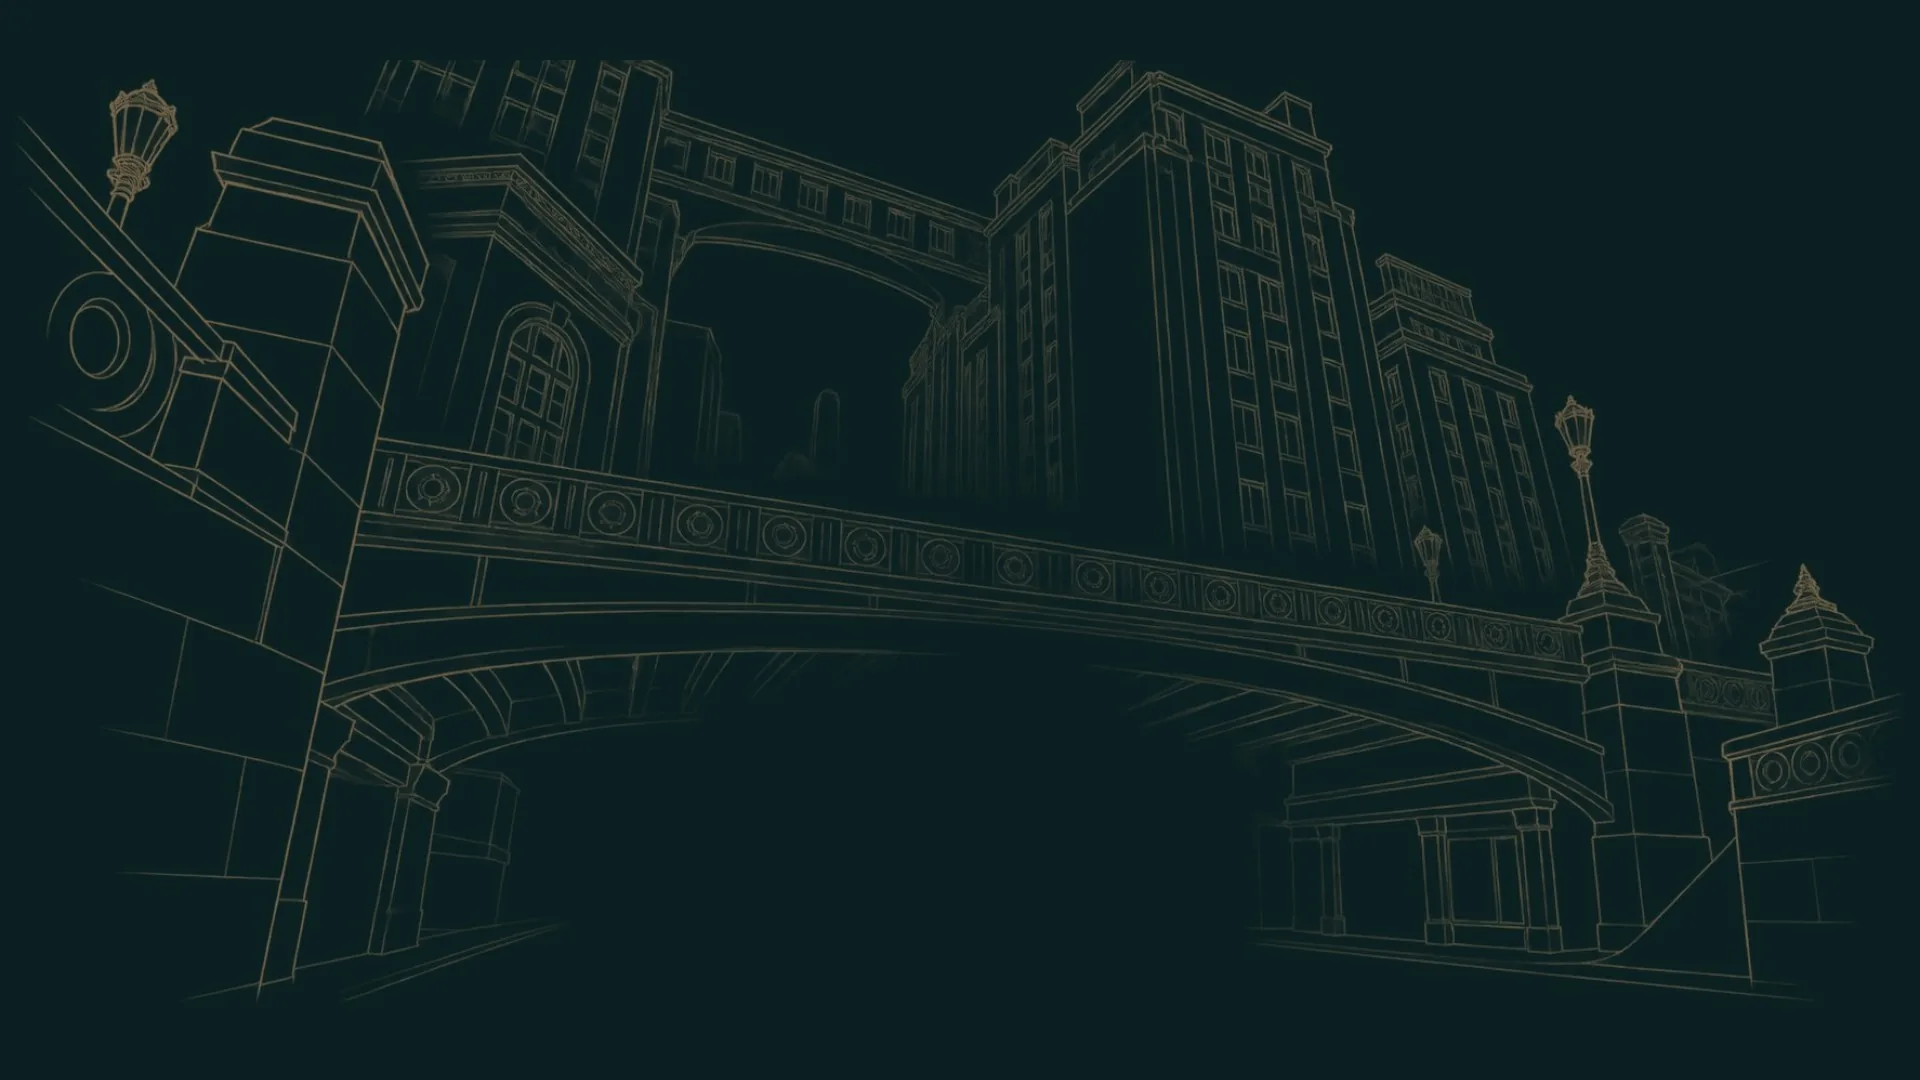
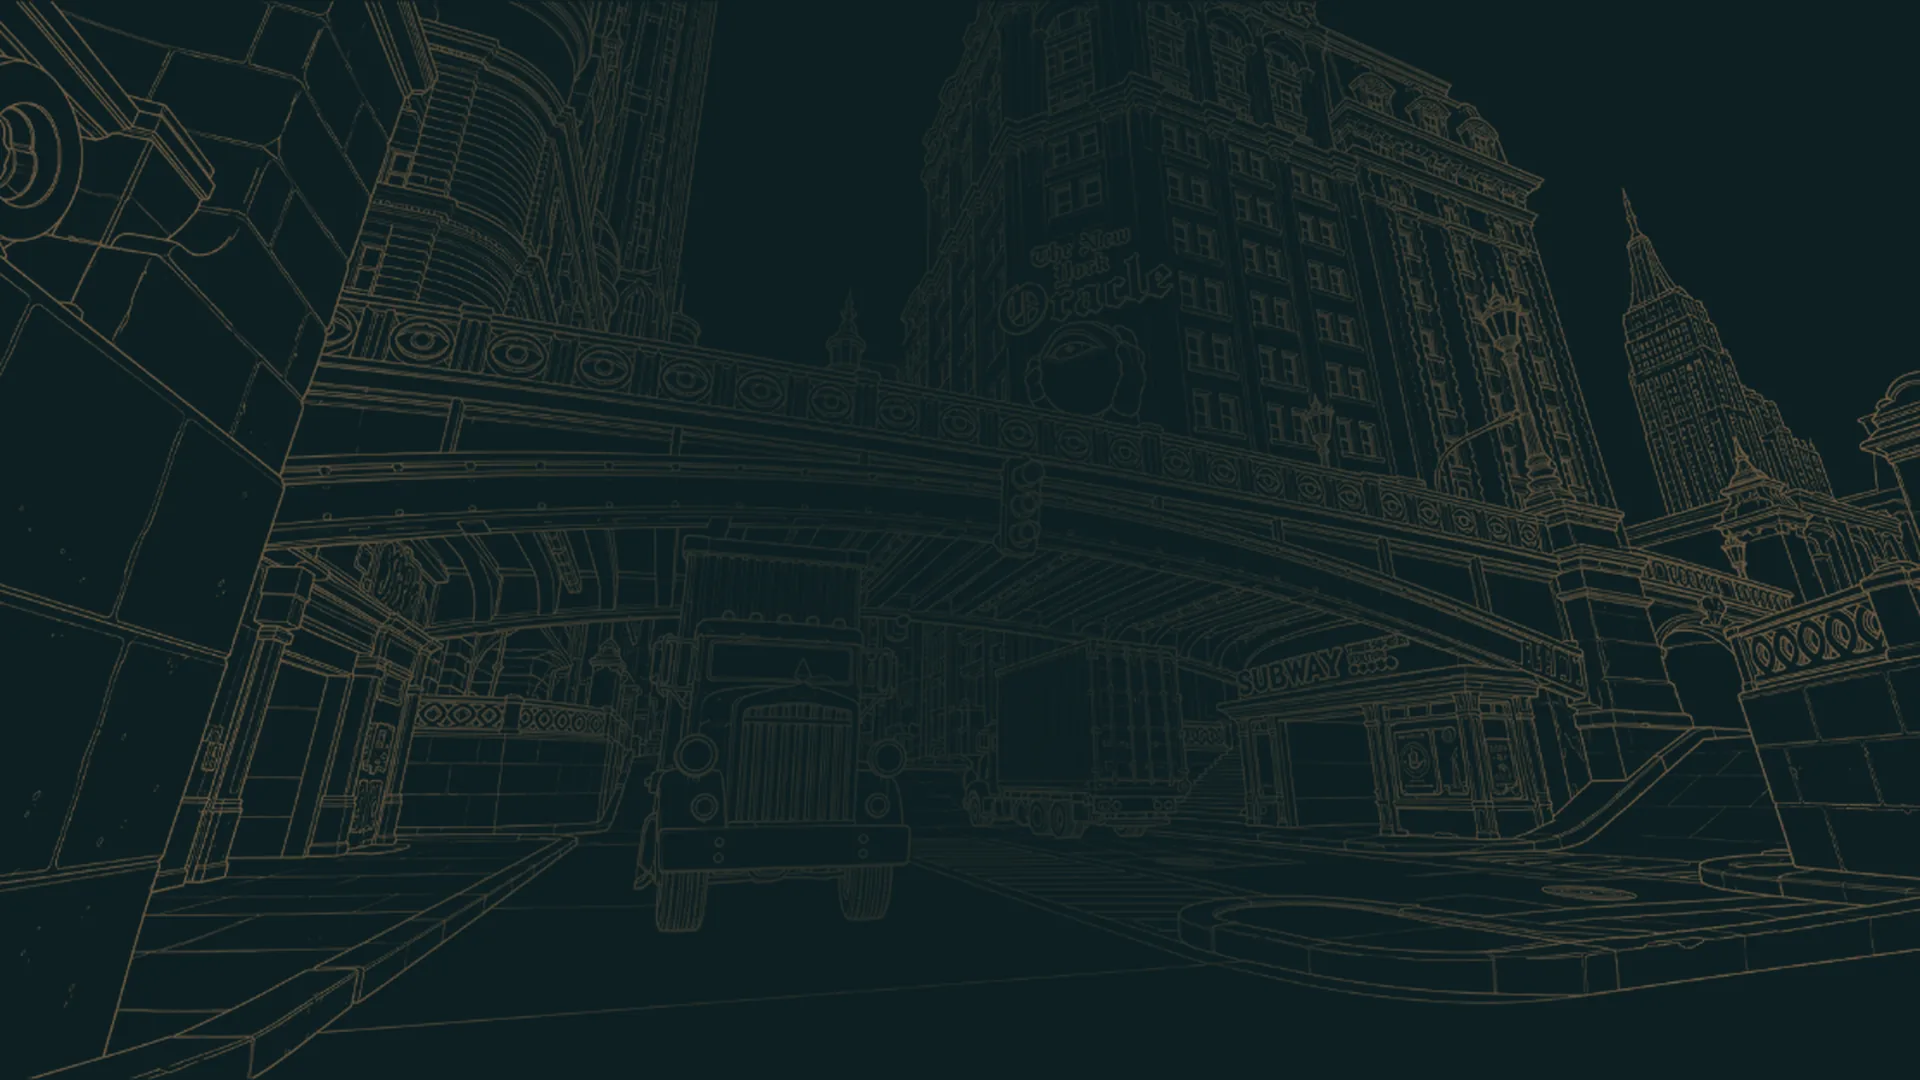
Site: formato e premiação do MIX, novo fundo e colaborador Rique
- Remove a seção de regras e junta formato e premiação num bloco só
  (programação, MIX, classificação, transmissão e premiação), em PT/EN/ES
- Troca a ilustração de fundo da ponte, mantendo a opacidade
- Adiciona Rique aos colaboradores

diff --git a/site/i18n.js b/site/i18n.js
@@ -61,26 +61,19 @@ const translations = {
     "live.open": "Open on Twitch",
     "live.local": "The stream only plays on the published site (Twitch blocks it when the file is opened directly).",
     "hero.sub": "Community-run Deadlock tournament",
-    "rules.title": "Rules, format and prizes",
-    "rules.s1": "1. Attendance and schedule",
-    "rules.s1.1": "Each player must confirm attendance in the official channel 15 minutes before the scheduled time.",
-    "rules.s1.2": "There is a 10-minute grace period after the scheduled time. After that, the referees record the absence and apply the rule set out in the announced format.",
-    "rules.s1.3": "Each participant must play on their own Steam account and report any problem directly to the referees.",
-    "rules.s2": "2. Matches and technical issues",
-    "rules.s2.1": "Matches are played in a private lobby. The organizers will announce the server region and the side and hero selection rules before the tournament.",
-    "rules.s2.2": "Pauses are allowed for technical issues. The affected player must notify the referees, who decide when to resume the match, within the game's limits.",
-    "rules.s2.3": "If disconnected, a player may try to rejoin during the pause. If the failure affects several participants or prevents the match from continuing, the referees may restart or reschedule it.",
-    "rules.s3": "3. Conduct",
-    "rules.s3.1": "Cheats, automating actions with scripts or macros, deliberate bug abuse and match fixing are prohibited.",
-    "rules.s3.2": "Players may not watch the broadcast of their own match or receive information from spectators while it is in progress, including during pauses.",
-    "rules.s3.3": "Harassment, discrimination, threats and insults are subject to penalties.",
-    "rules.s3.4": "Only authorized spectators may join the lobby. Authorized broadcasts must have a delay of at least 3 minutes.",
-    "rules.s4": "4. Results, disputes and penalties",
-    "rules.s4.1": "The organizers record the result of each match and update the individual standings according to the announced scoring system.",
-    "rules.s4.2": "Any player may dispute a result or report a violation directly to the referees within 15 minutes after the match ends. The report must include the match ID and evidence, when available. For suspected cheating, the deadline starts when the evidence is found.",
-    "rules.s4.3": "The referees may issue a warning, a point deduction or disqualification, depending on severity and repeat offenses. The decision and its reason will be communicated to the affected player.",
-    "rules.formatText": "TBD",
-    "rules.prizeText": "TBD",
+    "rules.title": "Format and prizes",
+    "rules.f1": "Schedule",
+    "rules.f1.1": "Saturday, Nov 28: starts at 1 PM, with at least 10 matches planned. The day is expected to end at 6:30 PM.",
+    "rules.f1.2": "Sunday, Nov 29: starts at 2 PM and runs until the tournament ends. 11 matches are planned, including the three finals, played by the 12 best-ranked players.",
+    "rules.f2": "How the MIX works",
+    "rules.f2.1": "Teams are drawn at random. To balance them, each team has one player from the “Captain” category. This label is only used to organize the draw.",
+    "rules.f2.2": "If players think the split is unbalanced or want to play with a different lineup, they can ask for a refresh to redraw the team.",
+    "rules.f3": "Standings",
+    "rules.f3.1": "Standings are individual. Before the finals, each win is worth 2 points and each loss is worth 1 point.",
+    "rules.f3.2": "In the three final matches, each win is worth 3 points, and each loss is still worth 1 point.",
+    "rules.f4": "Live broadcast",
+    "rules.f4.1": "Two matches run at the same time: Farinha streams one and Nokeime streams the other.",
+    "rules.prizeText": "The total prize, currently set at R$ 1,000.00, will be split among the 6 best-ranked players at the end of the tournament.",
     "collab.title": "Contributors",
     "footer.main": "Refresher League",
     "footer.small": "Independent event, not affiliated with Valve."
@@ -146,26 +139,19 @@ const translations = {
     "live.open": "Abrir en Twitch",
     "live.local": "La transmisión solo aparece en el sitio publicado (Twitch la bloquea al abrir el archivo directamente).",
     "hero.sub": "Torneo de Deadlock hecho por la comunidad",
-    "rules.title": "Reglas, formato y premios",
-    "rules.s1": "1. Asistencia y horarios",
-    "rules.s1.1": "Cada jugador debe confirmar su asistencia en el canal oficial 15 minutos antes de la hora programada.",
-    "rules.s1.2": "La tolerancia es de 10 minutos después de la hora programada. Pasado ese plazo, el arbitraje registra la ausencia y aplica la regla prevista en el formato publicado.",
-    "rules.s1.3": "Cada participante debe jugar con su propia cuenta de Steam y comunicar cualquier problema directamente al arbitraje.",
-    "rules.s2": "2. Partidas y problemas técnicos",
-    "rules.s2.1": "Las partidas se jugarán en lobby privado. La organización anunciará la región del servidor y las reglas de elección de lado y de héroes antes del torneo.",
-    "rules.s2.2": "Se permiten pausas en caso de problemas técnicos. El jugador afectado debe avisar al arbitraje, que decide cuándo reanudar la partida, respetando los límites del juego.",
-    "rules.s2.3": "En caso de desconexión, el jugador puede intentar volver durante la pausa. Si la falla afecta a varios participantes o impide continuar, el arbitraje puede reiniciar o reprogramar la partida.",
-    "rules.s3": "3. Conducta",
-    "rules.s3.1": "Están prohibidos los cheats, la automatización de acciones con scripts o macros, el abuso deliberado de bugs y el arreglo de resultados.",
-    "rules.s3.2": "Los jugadores no pueden ver la transmisión de su propia partida ni recibir información de espectadores mientras esté en curso, incluso durante las pausas.",
-    "rules.s3.3": "El acoso, la discriminación, las amenazas y los insultos están sujetos a sanción.",
-    "rules.s3.4": "Solo los espectadores autorizados pueden entrar al lobby. Las transmisiones autorizadas deben tener al menos 3 minutos de retraso.",
-    "rules.s4": "4. Resultados, reclamos y sanciones",
-    "rules.s4.1": "La organización registra los resultados de cada partida y actualiza la clasificación individual según el sistema de puntuación publicado.",
-    "rules.s4.2": "Cualquier jugador puede impugnar un resultado o reportar una infracción directamente al arbitraje hasta 15 minutos después del final de la partida. El reporte debe incluir el ID de la partida y las pruebas, cuando estén disponibles. En caso de sospecha de trampa, el plazo empieza cuando se encuentra la prueba.",
-    "rules.s4.3": "El arbitraje puede aplicar una advertencia, pérdida de puntos o descalificación, según la gravedad y la reincidencia. La decisión y el motivo se comunicarán al jugador afectado.",
-    "rules.formatText": "Por definir",
-    "rules.prizeText": "Por definir",
+    "rules.title": "Formato y premios",
+    "rules.f1": "Programación",
+    "rules.f1.1": "Sábado 28/11: empieza a las 13 h, con al menos 10 partidas previstas. El cierre del día está previsto para las 18:30.",
+    "rules.f1.2": "Domingo 29/11: empieza a las 14 h y sigue hasta el final del campeonato. Se prevén 11 partidas, incluidas las tres finales, disputadas por los 12 jugadores mejor clasificados.",
+    "rules.f2": "Cómo funciona el MIX",
+    "rules.f2.1": "Los equipos se forman por sorteo. Para equilibrarlos, cada uno tiene un jugador de la categoría “Capitán”. Esta identificación solo sirve para organizar el sorteo.",
+    "rules.f2.2": "Si creen que la división quedó desequilibrada o quieren jugar con otra formación, los jugadores pueden pedir un refresh para sortear el equipo de nuevo.",
+    "rules.f3": "Clasificación",
+    "rules.f3.1": "La clasificación es individual. Antes de las finales, cada victoria vale 2 puntos y cada derrota vale 1 punto.",
+    "rules.f3.2": "En las tres partidas finales, cada victoria pasa a valer 3 puntos y cada derrota sigue valiendo 1 punto.",
+    "rules.f4": "Transmisión en vivo",
+    "rules.f4.1": "Se juegan dos partidas al mismo tiempo: Farinha transmite una y Nokeime transmite la otra.",
+    "rules.prizeText": "El premio total, por ahora fijado en R$ 1.000,00, se dividirá entre los 6 jugadores mejor clasificados al final del campeonato.",
     "collab.title": "Colaboradores",
     "footer.main": "Refresher League",
     "footer.small": "Evento independiente, sin vínculo con Valve."

diff --git a/site/index.html b/site/index.html
@@ -20,7 +20,7 @@
   <link rel="apple-touch-icon" href="assets/apple-touch-icon.png?v=20261118a">
   <link rel="preload" href="assets/fonts/VALVEOracle-SemiBold.woff2" as="font" type="font/woff2" crossorigin>
   <link rel="preload" href="assets/fonts/VALVEOracle-Medium.woff2" as="font" type="font/woff2" crossorigin>
-  <link rel="stylesheet" href="style.css?v=20261121e">
+  <link rel="stylesheet" href="style.css?v=20261126a">
 </head>
 <body>
   <!-- Patronos fixos nas bordas da tela (metade de cada um aparece): Hidden King à esquerda e
@@ -62,7 +62,7 @@
     </div>
     <p class="info-pending">
       <span data-i18n="info.pending">Ainda a definir:</span>
-      <span class="info-pending-list"><span data-pending="formato" data-i18n="info.format">Formato</span><span data-pending="premiacao" data-i18n="info.prize">Premiação</span><span data-pending="times" data-i18n="info.teams">Times</span><span data-pending="regras" data-i18n="info.rules">Regras</span></span>
+      <span class="info-pending-list"><span data-pending="formato" data-i18n="info.format">Formato</span><span data-pending="premiacao" data-i18n="info.prize">Premiação</span><span data-pending="times" data-i18n="info.teams">Times</span></span>
     </p>
   </section>
   <script src="info.js?v=20261117v"></script>
@@ -77,7 +77,7 @@
       });
       const section = document.getElementById("info");
       section.querySelectorAll("[data-card]").forEach((c) => { c.hidden = !defined(I[c.dataset.card]); });
-      section.querySelectorAll("[data-pending]").forEach((s) => { s.hidden = s.dataset.pending === "regras" || defined(I[s.dataset.pending]); // regras já estão na seção #regras });
+      section.querySelectorAll("[data-pending]").forEach((s) => { s.hidden = defined(I[s.dataset.pending]); });
       section.querySelector(".info-cards").hidden = !section.querySelector("[data-card]:not([hidden])");
       section.querySelector(".info-pending").hidden = !section.querySelector("[data-pending]:not([hidden])");
     })();
@@ -346,56 +346,46 @@
     })();
   </script>
 
-  <!-- Regras, formato e premiação: texto fixo, editado direto aqui.
-       Para preencher, troque o "A definir" de cada bloco (e as traduções rules.* em i18n.js). -->
-  <section id="regras" class="rules" aria-labelledby="rules-title">
-    <h2 id="rules-title" class="section-title" data-i18n="rules.title">Regras, formato e premiação</h2>
+  <!-- Formato e premiação: texto fixo, editado direto aqui (traduções rules.* em i18n.js). -->
+  <section id="formato" class="rules" aria-labelledby="rules-title">
+    <h2 id="rules-title" class="section-title" data-i18n="rules.title">Formato e premiação</h2>
     <div class="rules-grid">
       <article class="rules-block rules-main">
-        <h3 data-i18n="info.rules">Regras</h3>
         <div class="rules-sections">
           <div>
-            <h4 data-i18n="rules.s1">1. Presença e horários</h4>
+            <h4 data-i18n="rules.f1">Programação</h4>
             <ul>
-              <li data-i18n="rules.s1.1">Cada jogador deve confirmar sua presença no canal oficial 15 minutos antes do horário marcado.</li>
-              <li data-i18n="rules.s1.2">A tolerância é de 10 minutos após o horário marcado. Depois desse prazo, a arbitragem registra a ausência e aplica a regra prevista no formato divulgado.</li>
-              <li data-i18n="rules.s1.3">Cada participante deve jogar na própria conta Steam e comunicar diretamente à arbitragem qualquer problema.</li>
+              <li data-i18n="rules.f1.1">Sábado, 28/11: começa às 13h, com pelo menos 10 partidas previstas. O encerramento do dia está previsto para 18h30.</li>
+              <li data-i18n="rules.f1.2">Domingo, 29/11: começa às 14h e segue até o fim do campeonato. A previsão é de 11 partidas, incluindo as três finais, disputadas pelos 12 jogadores mais bem classificados.</li>
             </ul>
           </div>
           <div>
-            <h4 data-i18n="rules.s2">2. Partidas e problemas técnicos</h4>
+            <h4 data-i18n="rules.f2">Como funciona o MIX</h4>
             <ul>
-              <li data-i18n="rules.s2.1">As partidas serão disputadas em lobby privado. A organização divulgará a região do servidor e as regras de escolha de lado e de heróis antes do campeonato.</li>
-              <li data-i18n="rules.s2.2">Pausas são permitidas em caso de problema técnico. O jogador afetado deve avisar a arbitragem, que decide quando retomar a partida, respeitando os limites do jogo.</li>
-              <li data-i18n="rules.s2.3">Em caso de desconexão, o jogador pode tentar retornar durante a pausa. Se a falha afetar vários participantes ou impedir a continuidade, a arbitragem pode reiniciar ou remarcar a partida.</li>
+              <li data-i18n="rules.f2.1">Os times são formados por sorteio. Para equilibrar as equipes, cada uma tem um jogador da categoria “Capitão”. Essa identificação serve apenas para organizar o sorteio.</li>
+              <li data-i18n="rules.f2.2">Se acharem que a divisão ficou desequilibrada ou quiserem jogar com outra formação, os jogadores podem pedir um refresh para sortear o time novamente.</li>
             </ul>
           </div>
           <div>
-            <h4 data-i18n="rules.s3">3. Conduta</h4>
+            <h4 data-i18n="rules.f3">Classificação</h4>
             <ul>
-              <li data-i18n="rules.s3.1">São proibidos cheats, automação de ações por scripts ou macros, abuso deliberado de bugs e combinação de resultados.</li>
-              <li data-i18n="rules.s3.2">Jogadores não podem consultar a transmissão da própria partida nem receber informações de espectadores enquanto ela estiver em andamento, inclusive durante pausas.</li>
-              <li data-i18n="rules.s3.3">Assédio, discriminação, ameaças e ofensas estão sujeitos a punição.</li>
-              <li data-i18n="rules.s3.4">Somente espectadores autorizados podem entrar no lobby. Transmissões autorizadas devem ter pelo menos 3 minutos de atraso.</li>
+              <li data-i18n="rules.f3.1">A classificação é individual. Antes das finais, cada vitória vale 2 pontos e cada derrota vale 1 ponto.</li>
+              <li data-i18n="rules.f3.2">Nas três partidas finais, cada vitória passa a valer 3 pontos, e cada derrota continua valendo 1 ponto.</li>
             </ul>
           </div>
           <div>
-            <h4 data-i18n="rules.s4">4. Resultados, protestos e punições</h4>
+            <h4 data-i18n="rules.f4">Transmissão ao vivo</h4>
             <ul>
-              <li data-i18n="rules.s4.1">A organização registra os resultados de cada partida e atualiza a classificação individual conforme o sistema de pontuação divulgado.</li>
-              <li data-i18n="rules.s4.2">Qualquer jogador pode contestar um resultado ou relatar uma infração diretamente à arbitragem em até 15 minutos após o fim da partida. O relato deve incluir o ID da partida e as evidências, quando disponíveis. Em suspeita de trapaça, o prazo começa quando a evidência é encontrada.</li>
-              <li data-i18n="rules.s4.3">A arbitragem pode aplicar advertência, perda de pontos ou desclassificação, conforme a gravidade e a reincidência. A decisão e o motivo serão comunicados ao jogador afetado.</li>
+              <li data-i18n="rules.f4.1">Duas partidas rolam ao mesmo tempo: o Farinha transmite uma, e o Nokeime transmite a outra.</li>
+            </ul>
+          </div>
+          <div>
+            <h4 data-i18n="info.prize">Premiação</h4>
+            <ul>
+              <li data-i18n="rules.prizeText">A premiação total, por enquanto fixada em R$ 1.000,00, será dividida entre os 6 jogadores mais bem classificados ao fim do campeonato.</li>
             </ul>
           </div>
         </div>
-      </article>
-      <article class="rules-block">
-        <h3 data-i18n="info.format">Formato</h3>
-        <p data-i18n="rules.formatText">A definir</p>
-      </article>
-      <article class="rules-block">
-        <h3 data-i18n="info.prize">Premiação</h3>
-        <p data-i18n="rules.prizeText">A definir</p>
       </article>
     </div>
   </section>
@@ -411,8 +401,8 @@
     </section>
     <p class="small" data-i18n="footer.small">Evento independente, sem vínculo com a Valve.</p>
   </footer>
-  <script src="colaboradores.js?v=20261121g"></script>
+  <script src="colaboradores.js?v=20261126a"></script>
 
-  <script src="i18n.js?v=20261121b"></script>
+  <script src="i18n.js?v=20261126b"></script>
 </body>
 </html>

diff --git a/site/historico.html b/site/historico.html
@@ -10,7 +10,7 @@
   <link rel="apple-touch-icon" href="assets/apple-touch-icon.png?v=20261118a">
   <link rel="preload" href="assets/fonts/VALVEOracle-SemiBold.woff2" as="font" type="font/woff2" crossorigin>
   <link rel="preload" href="assets/fonts/VALVEOracle-Medium.woff2" as="font" type="font/woff2" crossorigin>
-  <link rel="stylesheet" href="style.css?v=20261121e">
+  <link rel="stylesheet" href="style.css?v=20261126a">
 </head>
 <body data-i18n-title="hist.title" data-title-pt="Histórico das partidas">
   <!-- Mesmos patronos da página inicial: Hidden King à esquerda e Arch Mother à direita -->
@@ -58,7 +58,7 @@
     </section>
     <p class="small" data-i18n="footer.small">Evento independente, sem vínculo com a Valve.</p>
   </footer>
-  <script src="colaboradores.js?v=20261121g"></script>
+  <script src="colaboradores.js?v=20261126a"></script>
 
   <script src="partida.js?v=20261117v"></script>
   <script src="partidas-render.js?v=20261121b"></script>
@@ -128,6 +128,6 @@
       if (m) { const n = +m[1], P = D.partidas[n - 1]; if (P) addEventListener("load", () => open(P, n, buttons[n])); }
     })();
   </script>
-  <script src="i18n.js?v=20261121b"></script>
+  <script src="i18n.js?v=20261126b"></script>
 </body>
 </html>

diff --git a/site/style.css b/site/style.css
@@ -117,7 +117,7 @@ section[id] { scroll-margin-top: 80px; } /* o menu fixo não cobre o título ao 
 /* Ponte em contorno dourado ao fundo, fixa, atrás dos patronos */
 .backdrop {
   position: fixed; inset: 0; z-index: 0;
-  background: url("assets/fundo-ponte.webp?v=20261119a") center / cover no-repeat;
+  background: url("assets/fundo-ponte.webp?v=20261126a") center / cover no-repeat;
   opacity: 0.18;   /* traços mais apagados, misturados ao verde-noite do site */
   pointer-events: none;
 }

diff --git a/site/colaboradores.js b/site/colaboradores.js
@@ -8,6 +8,7 @@ const COLABORADORES = [
   { nome: "Pinkish_nana" },
   { nome: "Aqua" },
   { nome: "Atlas_sw" },
+  { nome: "Rique" },
 ];
 
 (function () {
